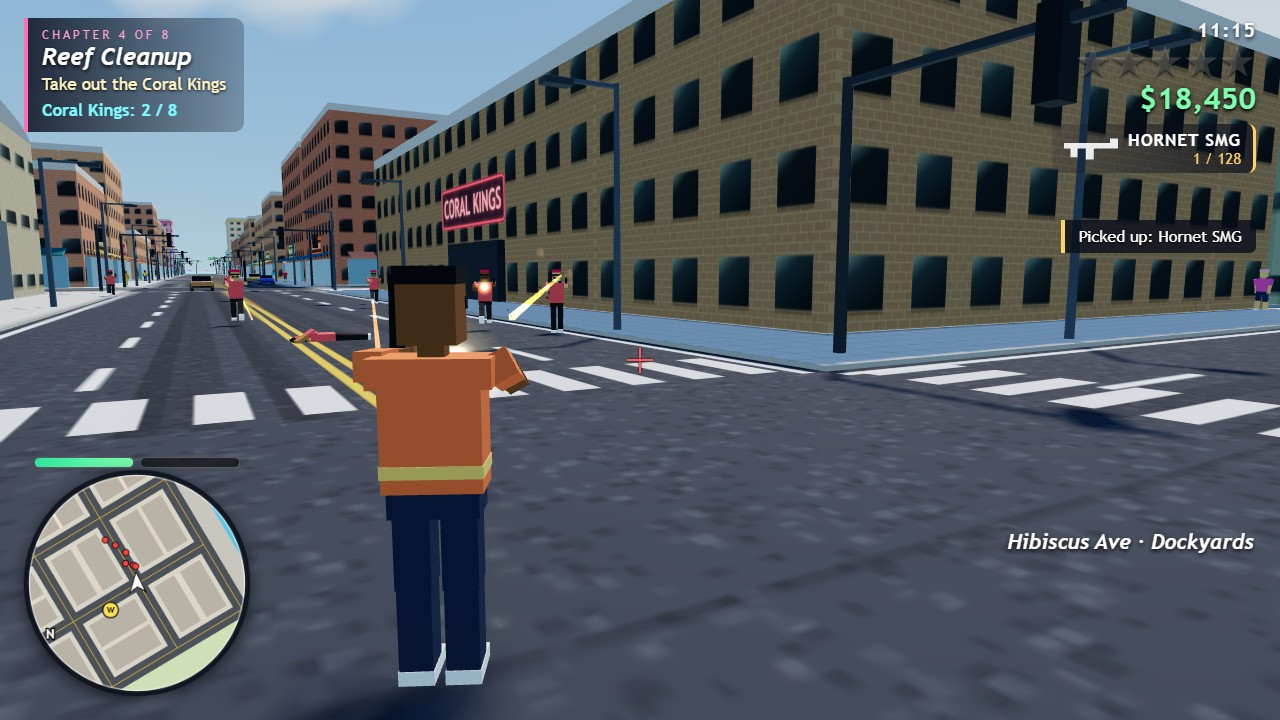
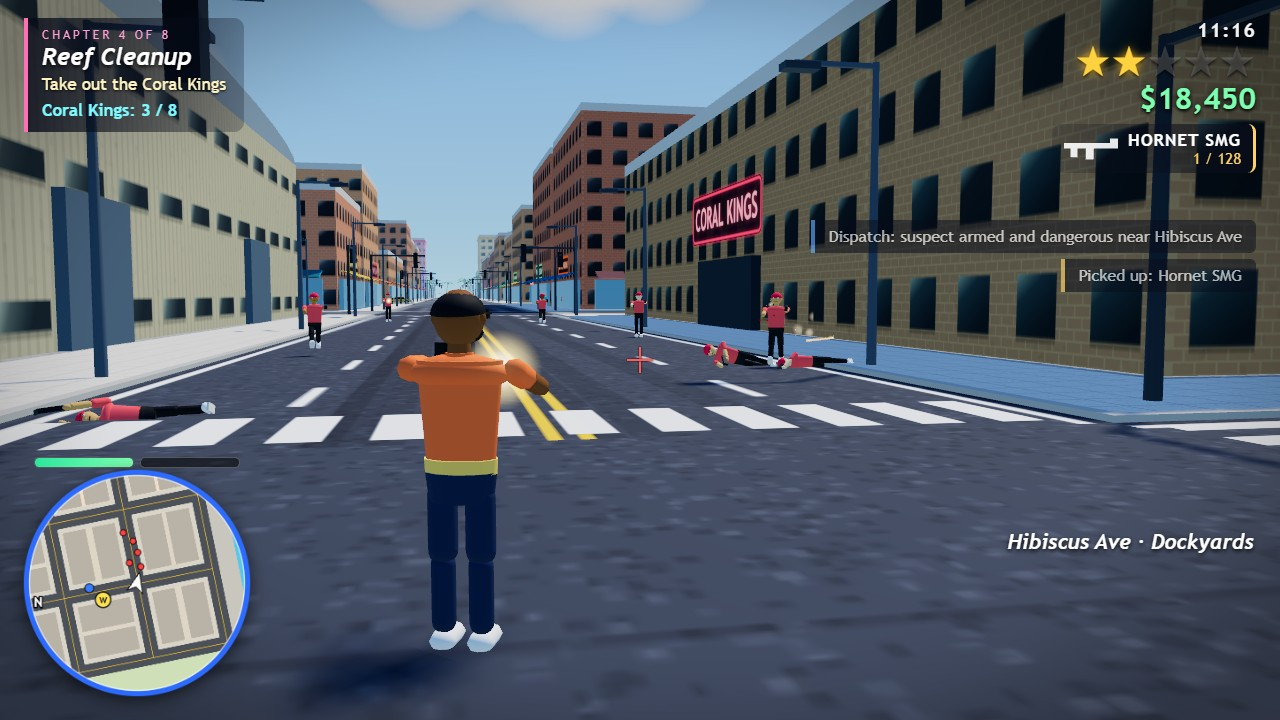
New screenshots: closer police chase cover, wider shootout with wanted level, carjack scene, bloom-lit night roadblock; gun barrel follows the forearm

diff --git a/game/src/debug/scenes.js b/game/src/debug/scenes.js
@@ -30,7 +30,7 @@ function autofireAtEnemies(game, weapon, interval) {
     foes.sort((a, b) => Math.hypot(a.pos.x - p.pos.x, a.pos.z - p.pos.z) - Math.hypot(b.pos.x - p.pos.x, b.pos.z - p.pos.z));
     const f = foes[0];
     p.yaw = Math.atan2(f.pos.x - p.pos.x, f.pos.z - p.pos.z);
-    game.cameraRig.yaw += (p.yaw - 0.12 - game.cameraRig.yaw) * Math.min(1, dt * 3);
+    game.cameraRig.yaw += (p.yaw + (game.cameraRig.aimBias ?? -0.12) - game.cameraRig.yaw) * Math.min(1, dt * 3);
     t -= dt;
     if (t > 0) return;
     t = interval;
@@ -170,4 +170,8 @@ export function applyDebugScene(game, name, { startNewGame, placePlayer }) {
   if (game.params.get('hour')) game.hours = Number(game.params.get('hour'));
   if (game.params.get('camyaw')) rig.fixedOffset = Number(game.params.get('camyaw'));
   if (game.params.get('campitch')) rig.pitch = Number(game.params.get('campitch'));
+  if (game.params.get('aimbias')) rig.aimBias = Number(game.params.get('aimbias'));
+  if (game.params.get('camfov')) rig.fovOverride = Number(game.params.get('camfov'));
+  if (game.params.get('wanted')) setWantedLevel(game, Number(game.params.get('wanted')));
+  if (game.params.get('camdist') && name !== 'chase') rig.distScale = Number(game.params.get('camdist'));
 }

diff --git a/game/src/characters/characterModel.js b/game/src/characters/characterModel.js
@@ -165,8 +165,10 @@ export function setHeldWeapon(model, weaponId) {
   const size = GUN_SIZE[weaponId];
   model.gun.visible = !!size;
   if (size) {
+    // barrel runs along the forearm, so it points where the arm aims
     model.gun.scale.set(size[0] / 0.07, size[1] / 0.12, size[2] / 0.34);
-    model.gun.position.z = size[2] / 2 - 0.05;
+    model.gun.rotation.x = Math.PI / 2;
+    model.gun.position.set(0, -0.62 - (size[2] / 2 - 0.12), 0.07);
   }
 }
 
